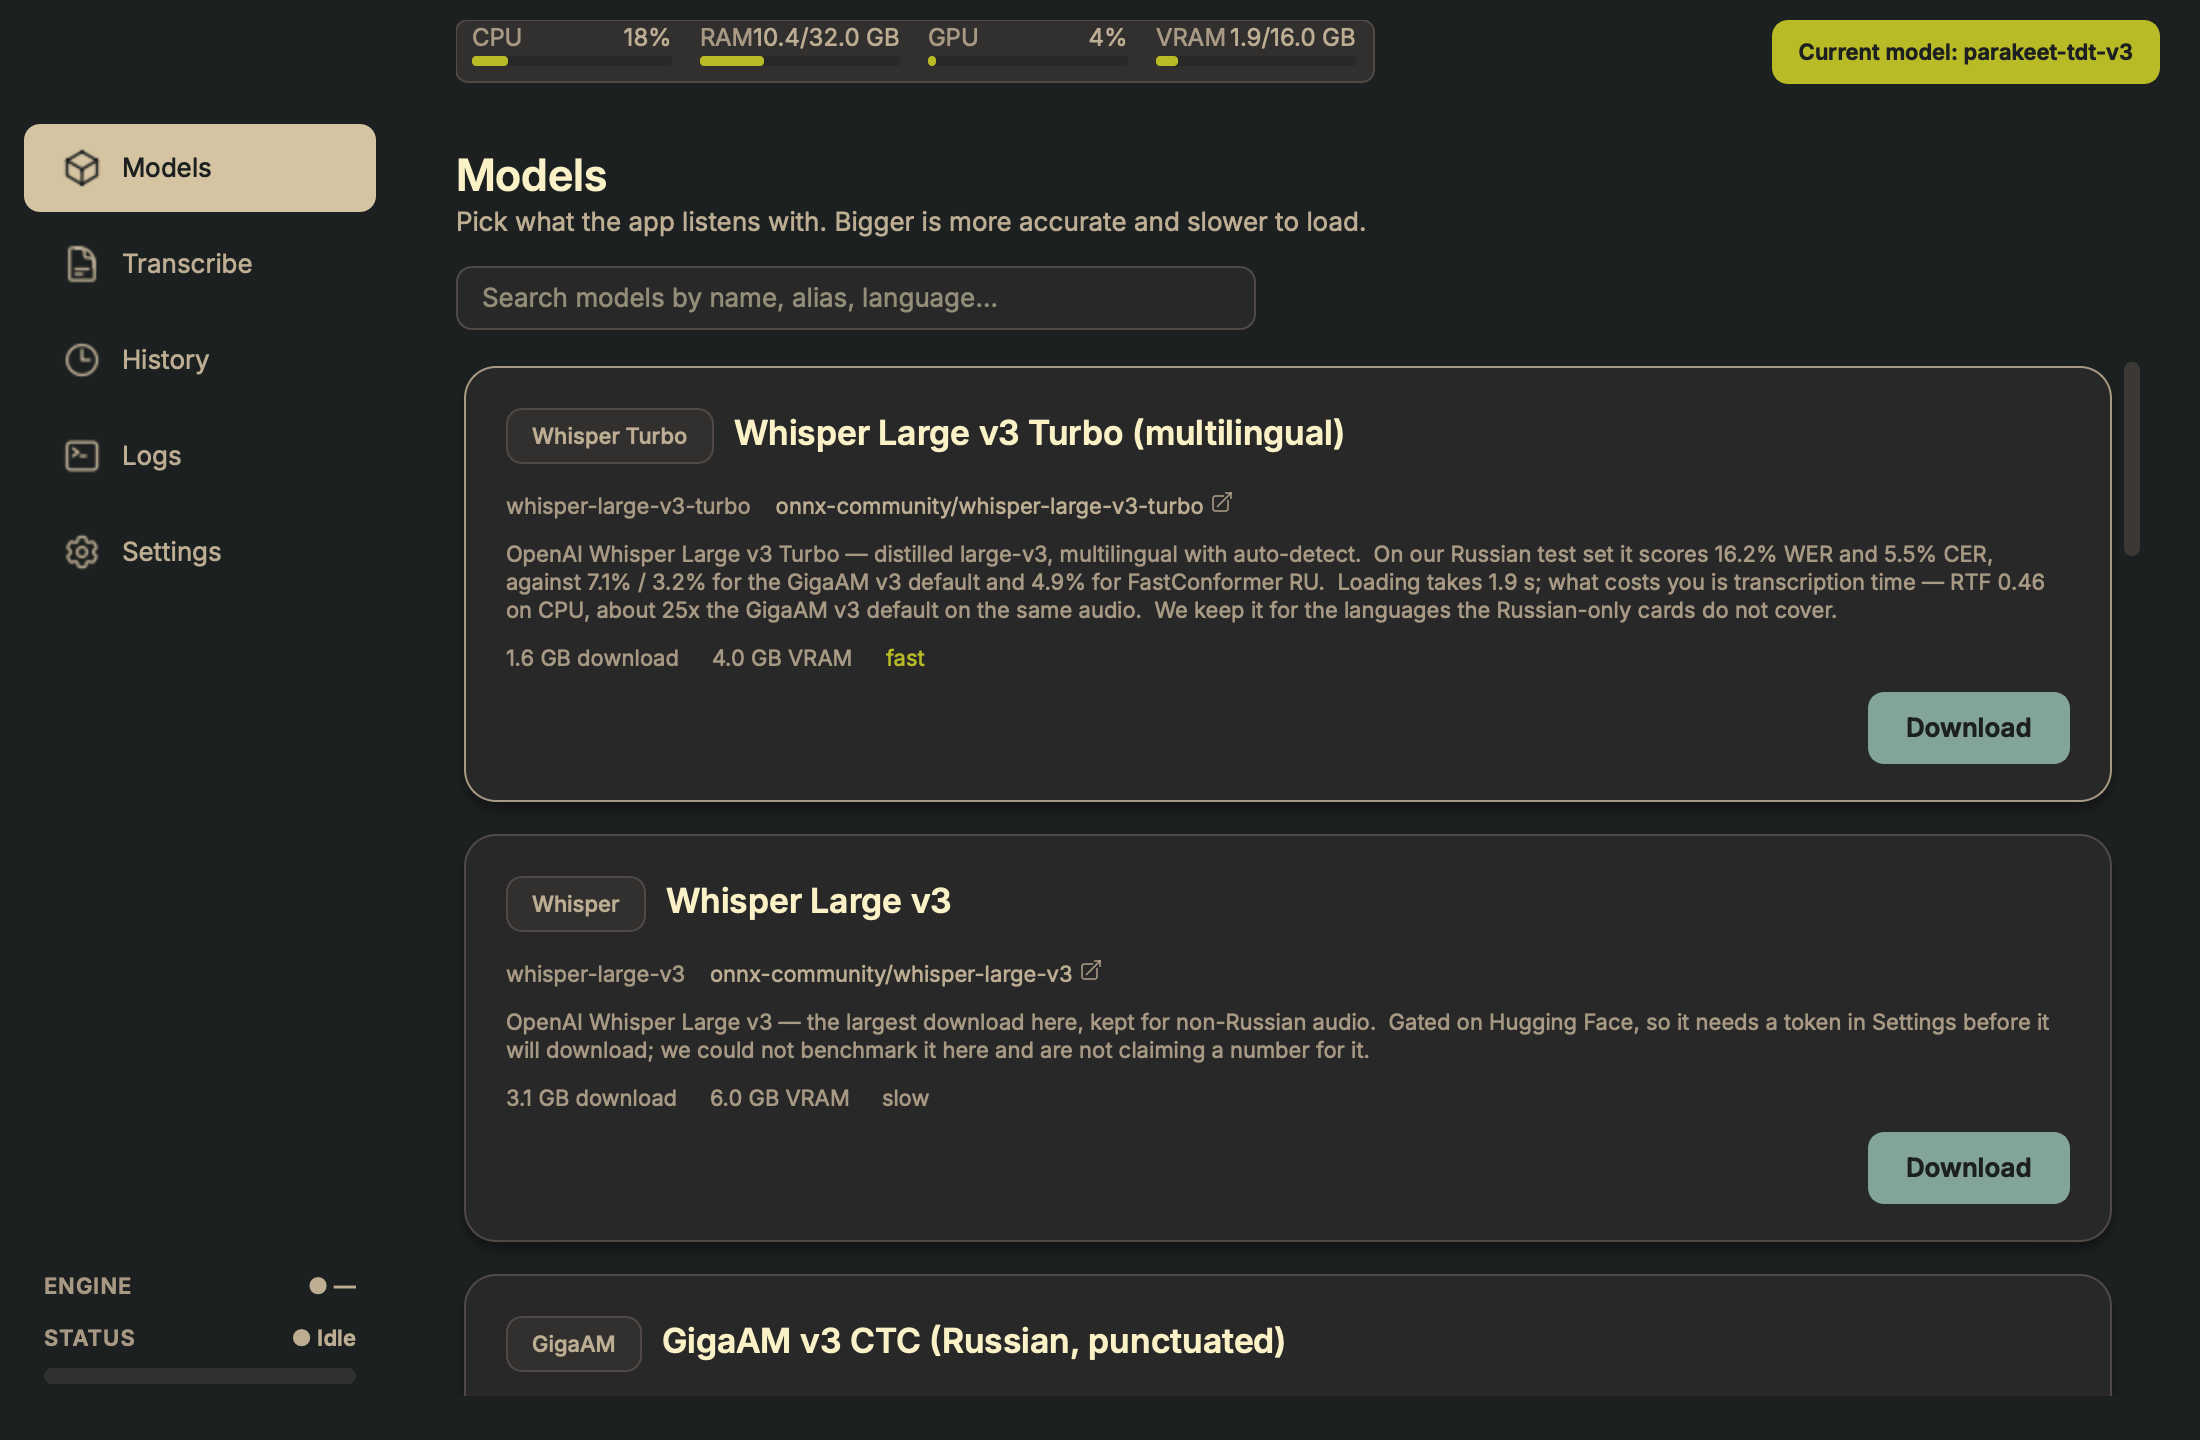
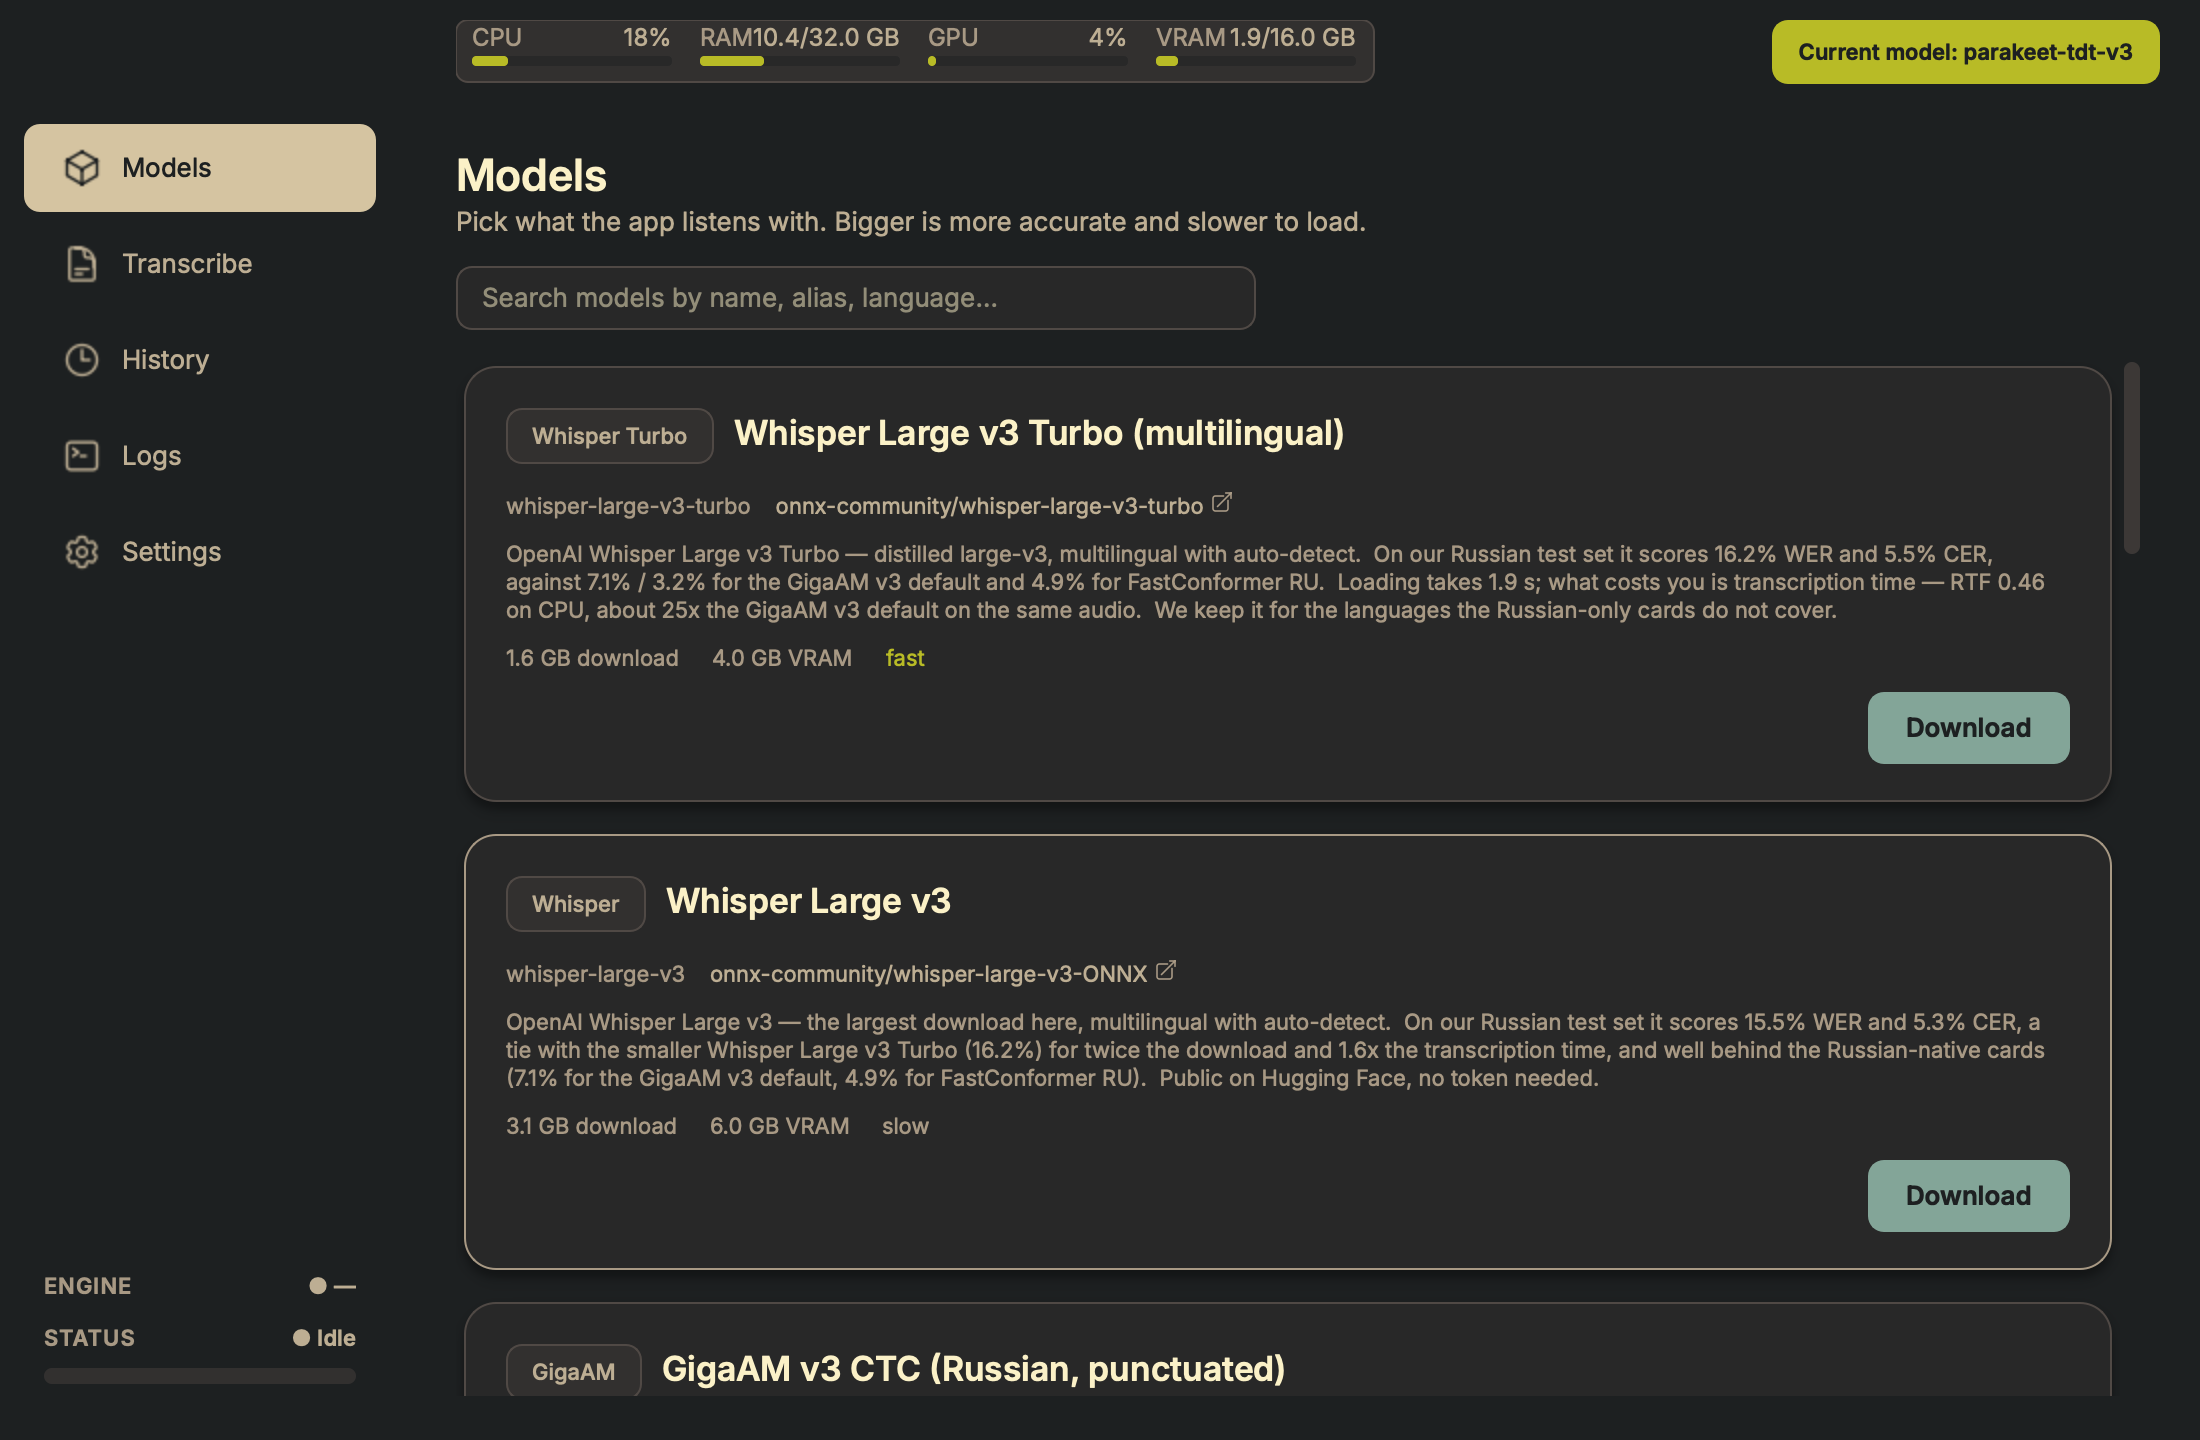
fix(models): the whisper-large-v3 card named a repo that does not exist, and blamed a gate for the 404
Two claims, neither of them a measurement, both of them false.

The canonical was `onnx-community/whisper-large-v3`. No such repository
exists; the export is `onnx-community/whisper-large-v3-ONNX`, with the
suffix. Hugging Face answers 404 for a repo that is not there — and 404
is exactly what it answers for a gated repo you have not been granted,
so the two are indistinguishable from the call site. The card pointed at
nothing and explained the silence with "Gated on Hugging Face, so it
needs a token in Settings before it will download". It is not gated: it
is public and downloads anonymously, checked both with and without a
token. The gate was a story fitted to a typo. Worth remembering for the
next "this repo is inaccessible" claim: check the name first.

Now that it loads, it has a number. On the Golos test split — 400
clips, 370 of them in the 1554-word speech bucket:

  whisper-large-v3        15.5% WER   5.3% CER   RTF 0.716   3.3 s
  whisper-large-v3-turbo  16.2%       5.5%        0.457       1.9 s
  gigaam-v3-ctc (default)  7.1%       3.2%        0.018       0.8 s
  fastconformer-ru        4.9%        —           0.010       0.4 s

The comparison is the point. The largest Whisper OpenAI ever shipped
beats the Turbo by 0.7 points — inside the +-1.0-1.8 a 1554-word sample
buys, so a tie — for twice the download and 1.6x the transcription time.
Against models built for this language it is not close: roughly twice
[…]

Changed region(s): [[0.2164, 0.7812, 0.9582, 0.9688], [0.2164, 0.6562, 0.9273, 0.8125]]

diff --git a/app/model_mapping.py b/app/model_mapping.py
@@ -192,9 +192,41 @@ MODELS: Tuple[ModelInfo, ...] = (
         onnx_family="whisper",
     ),
     # ---- Whisper Large v3 (full) -------------------------------------------
+    # Two things this card used to say were both wrong, and neither was a
+    # measurement:
+    #
+    # "Gated on Hugging Face, so it needs a token in Settings before it
+    # will download" — it is not gated. ``onnx-community/whisper-large-v3
+    # -ONNX`` is public and downloads anonymously; checked with and
+    # without a token. There was presumably a real 404 behind the claim
+    # and a plausible story attached to it.
+    #
+    # The 404 was the canonical id. There is no
+    # ``onnx-community/whisper-large-v3``; the export is
+    # ``onnx-community/whisper-large-v3-ONNX``, with the suffix, and
+    # Hugging Face returns 404 — not 403 — for a repo that does not
+    # exist, which is indistinguishable at the call site from a gated
+    # repo you have not been granted. So the card pointed at nothing and
+    # explained the silence with a gate. If a card ever claims a repo is
+    # inaccessible, check the name before believing the gate.
+    # Measured 2026-10-05 on the Golos test split, now that it loads:
+    # 15.5% WER, 5.3% CER, RTF 0.716, 3.3 s to load.
+    #
+    # The number worth keeping is the comparison, not the value. The
+    # largest Whisper OpenAI ever shipped scores 0.7 points better than
+    # the Turbo — inside the +-1.0-1.8 a 1554-word sample buys, so a tie
+    # — for twice the download and 1.6x the transcription time. Against
+    # the models actually built for this language it is not close: 7.1%
+    # for the GigaAM v3 default, 4.9% for FastConformer RU, both of them
+    # a fraction of the size and roughly forty times quicker. Spoken
+    # numbers come out at 46%, the same as the Turbo and the same as the
+    # GigaAM default.
+    #
+    # So the card stays in the catalogue as the option for the
+    # languages nothing else here covers, and not as a quality tier.
     ModelInfo(
         alias="whisper-large-v3",
-        canonical="onnx-community/whisper-large-v3",
+        canonical="onnx-community/whisper-large-v3-ONNX",
         display_name="Whisper Large v3",
         size_mb=3145,
         vram_gb=6.0,
@@ -202,10 +234,13 @@ MODELS: Tuple[ModelInfo, ...] = (
         quality="excellent",
         languages="multilingual",
         description=(
-            "OpenAI Whisper Large v3 — the largest download here, kept for "
-            "non-Russian audio.  Gated on Hugging Face, so it needs a "
-            "token in Settings before it will download; we could not "
-            "benchmark it here and are not claiming a number for it."
+            "OpenAI Whisper Large v3 — the largest download here, "
+            "multilingual with auto-detect.  On our Russian test set it "
+            "scores 15.5% WER and 5.3% CER, a tie with the smaller Whisper "
+            "Large v3 Turbo (16.2%) for twice the download and 1.6x the "
+            "transcription time, and well behind the Russian-native cards "
+            "(7.1% for the GigaAM v3 default, 4.9% for FastConformer RU).  "
+            "Public on Hugging Face, no token needed."
         ),
         compute_type="float16",
         family="Whisper",
@@ -594,9 +629,30 @@ def get_model(alias: str) -> ModelInfo:
 # reverse — first alias wins when several presets share a canonical id.
 ALIAS_TO_MODEL = {m.alias: m.canonical for m in MODELS}
 
+# Canonical ids this app used to write out, mapped to the alias that
+# replaced them. A card's canonical lands in ``config.yaml`` the moment a
+# user picks it and in every history row it transcribes, so renaming one
+# without this leaves those files naming a model the registry no longer
+# knows: ``alias_for`` returns the string unchanged, ``get_model`` raises,
+# and the controller quietly leaves the model inactive — a selection the
+# user made disappearing with no error and no way back.
+#
+# ``onnx-community/whisper-large-v3`` was never a repository. It was the
+# wrong name for ``onnx-community/whisper-large-v3-ONNX`` (HF answers 404
+# for a repo that does not exist, which looks exactly like a gated one),
+# and the card covered the gap by claiming a token was required. Anyone
+# who picked that card has the bad id saved, so it has to keep resolving.
+_RETIRED_CANONICALS: dict[str, str] = {
+    "onnx-community/whisper-large-v3": "whisper-large-v3",
+}
+
 MODEL_TO_ALIAS: dict[str, str] = {}
 for _m in MODELS:
     MODEL_TO_ALIAS.setdefault(_m.canonical, _m.alias)
+# A retired id never shadows a live one: if a future card legitimately
+# takes the old name back, the loop above has already claimed it.
+for _old, _alias in _RETIRED_CANONICALS.items():
+    MODEL_TO_ALIAS.setdefault(_old, _alias)
 
 
 def canonical_for(name: str) -> str:
